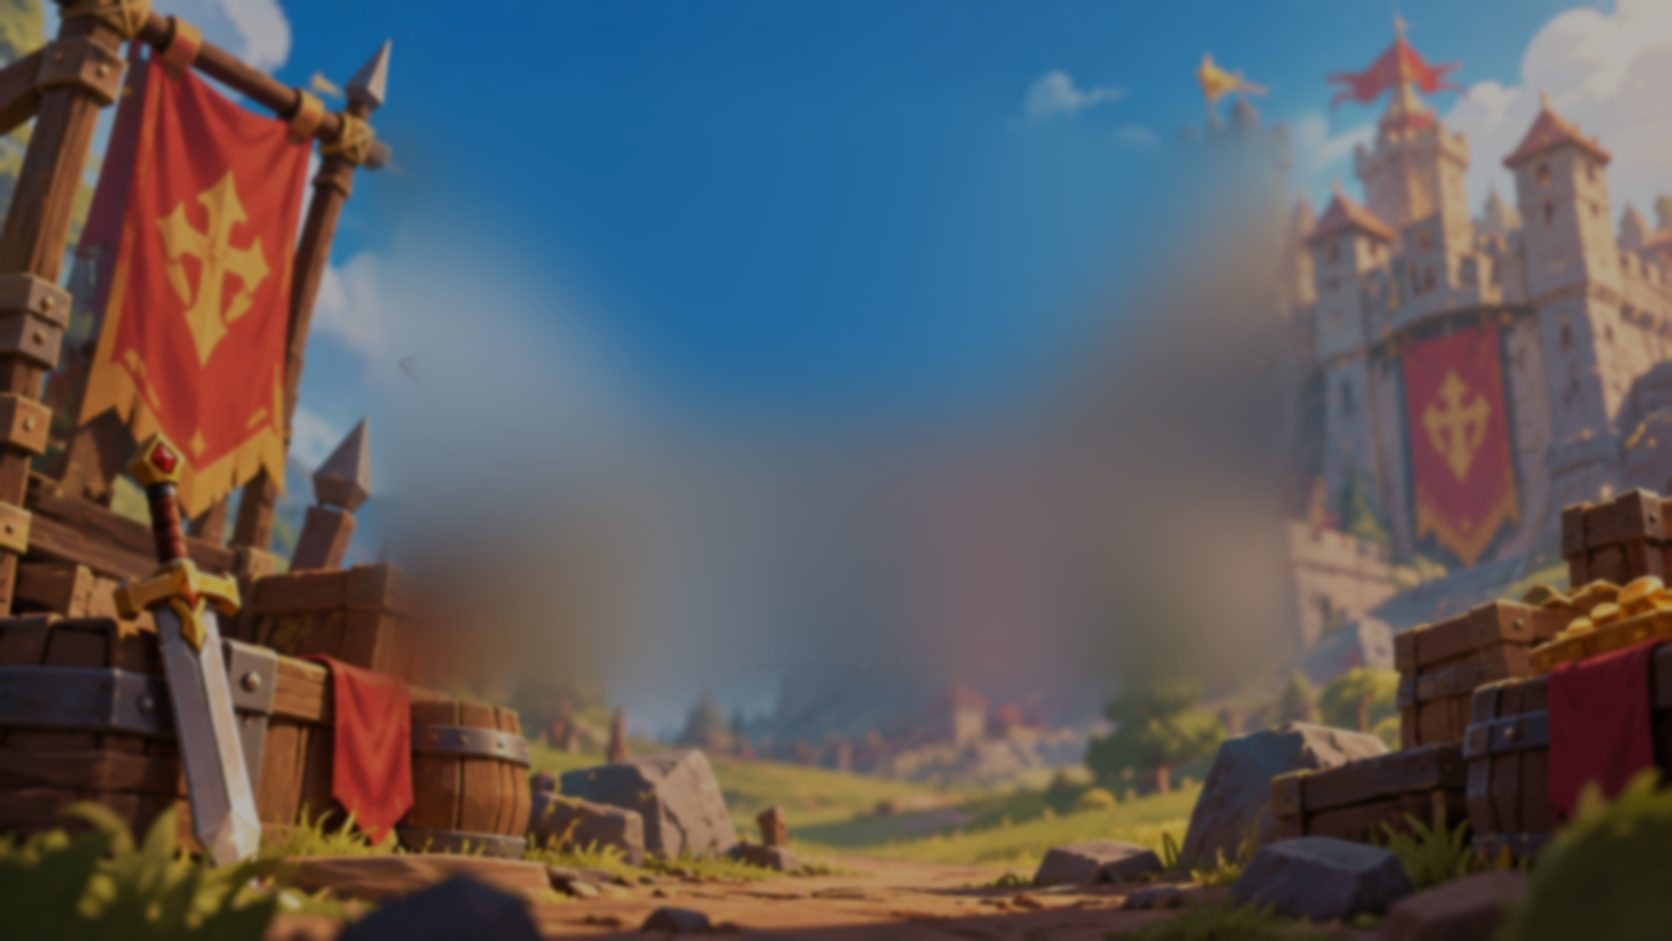
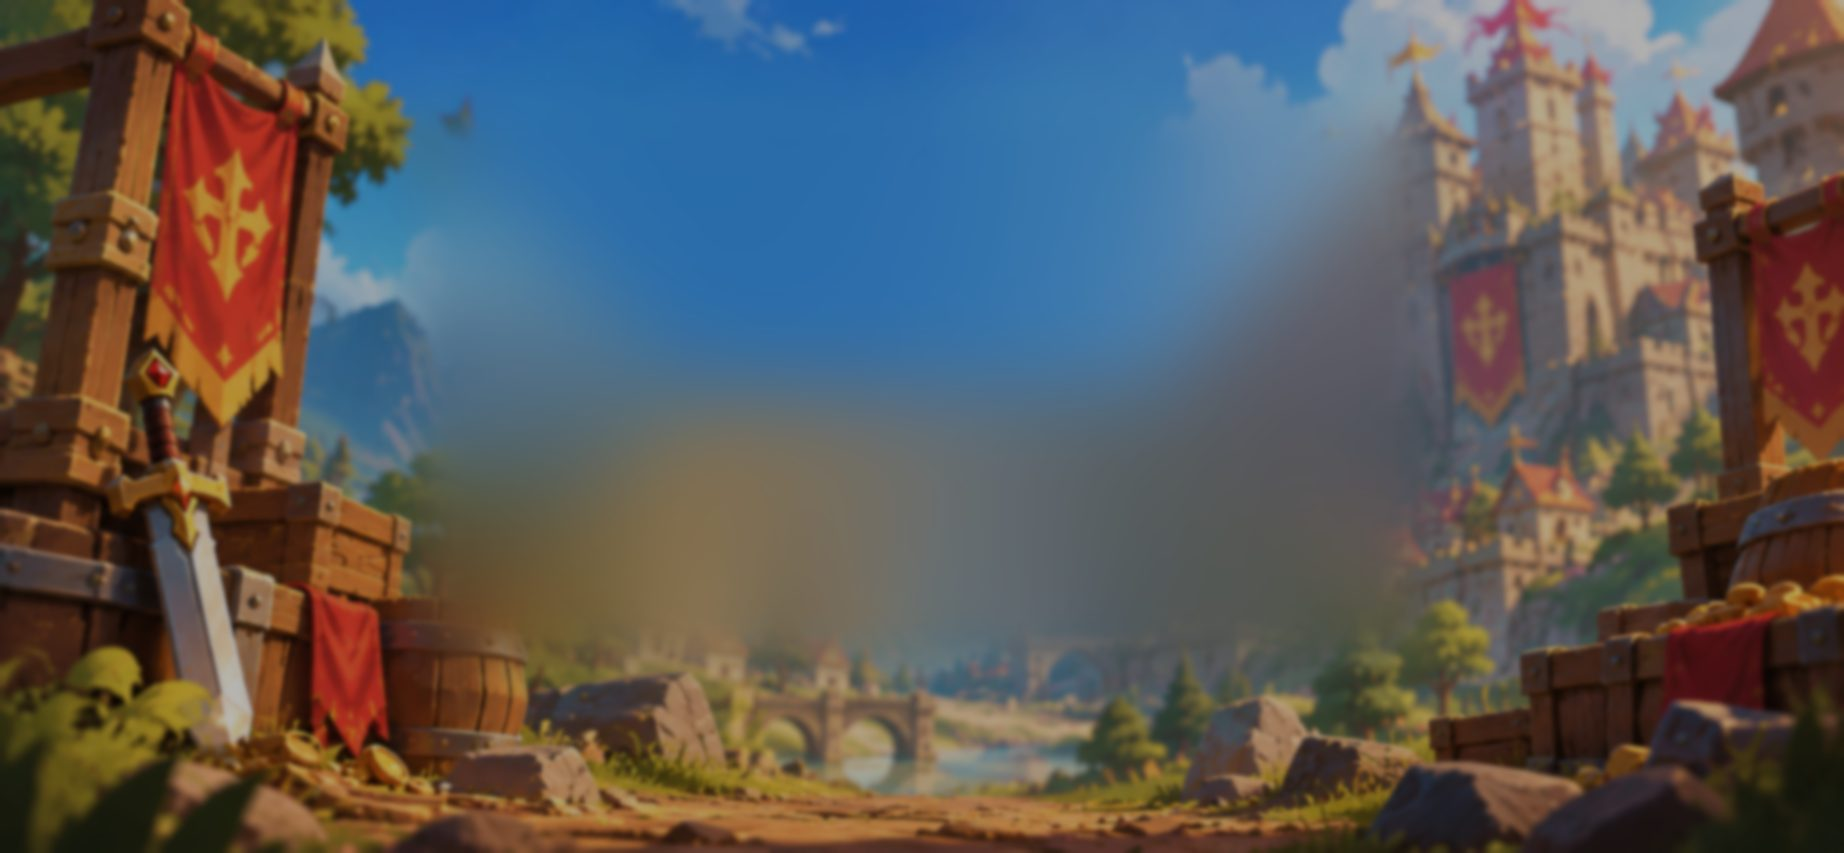
Yükleme ve seçim ekranı arka planı yeni görselle güncellendi
Claude-Session: https://claude.ai/code/session_01TUfHxHZvSbtHegZ73eiLSr

diff --git a/CLASHBORN/src/styles/main.css b/CLASHBORN/src/styles/main.css
@@ -412,6 +412,6 @@ div.sel-logo { height: auto; font: 900 clamp(26px, 10vh, 56px)/1 "Trebuchet MS",
 /* Yükleme ekranı (tasarım görselinden): logo/sahne arka planda hazır, çubuk ve yazı canlı */
 #loading { background: #2b6fc4 url(../../assets/ui/menus/loading_bg.jpg) center / cover no-repeat; justify-content: flex-start; gap: 0; }
 #loading .sel-logo { display: none; }
-#loading .ld-bar { position: absolute; left: 50%; top: 59%; transform: translateX(-50%); width: min(43vw, 640px); height: clamp(14px, 4.6vh, 26px); border-radius: 999px; background: #14234a; border: 3px solid #e8b53c; box-shadow: 0 0 0 2px #2a2f55, 0 4px 10px rgba(0,0,0,.45), inset 0 3px 6px rgba(0,0,0,.5); overflow: hidden; }
+#loading .ld-bar { position: absolute; left: 50%; top: 66%; transform: translateX(-50%); width: min(36vw, 560px); height: clamp(14px, 4.6vh, 26px); border-radius: 999px; background: #14234a; border: 3px solid #e8b53c; box-shadow: 0 0 0 2px #2a2f55, 0 4px 10px rgba(0,0,0,.45), inset 0 3px 6px rgba(0,0,0,.5); overflow: hidden; }
 #loading .ld-bar i { background: linear-gradient(#6ad0ff 0%, #1d9bf0 50%, #1473d6 100%); box-shadow: inset 0 2px 0 rgba(255,255,255,.45); }
-#loading p { position: absolute; left: 0; right: 0; top: calc(59% + clamp(24px, 8vh, 44px)); text-align: center; font-size: clamp(11px, 3.4vh, 16px); }
+#loading p { position: absolute; left: 0; right: 0; top: calc(66% + clamp(22px, 7.5vh, 40px)); text-align: center; font-size: clamp(11px, 3.4vh, 16px); }

diff --git a/CLASHBORN/sw.js b/CLASHBORN/sw.js
@@ -1,7 +1,7 @@
 /* CLASHBORN service worker — çevrimdışı oynama.
  * Strateji: kabuk (index, css, js, json) AĞ ÖNCELİKLİ (güncelleme hemen gelir, ağ yoksa önbellek); görseller/yazı tipi/ses ÖNBELLEK ÖNCELİKLİ (bir kez indirilir).
  * Sürüm: VERSION değişince eski önbellek silinir (tools/build_sw.py her yayın öncesi günceller). */
-const VERSION = 'clashborn-bd7cd00381';
+const VERSION = 'clashborn-8c6a20a7bd';
 const CORE = ['./', './index.html', './manifest.webmanifest', './src/main.js', './src/styles/main.css', './data/asset_manifest.json'];
 const isAsset = (u) => /\.(png|jpg|jpeg|webp|gif|svg|woff2?|ttf|mp3|ogg|wav)$/i.test(u.pathname);
 
